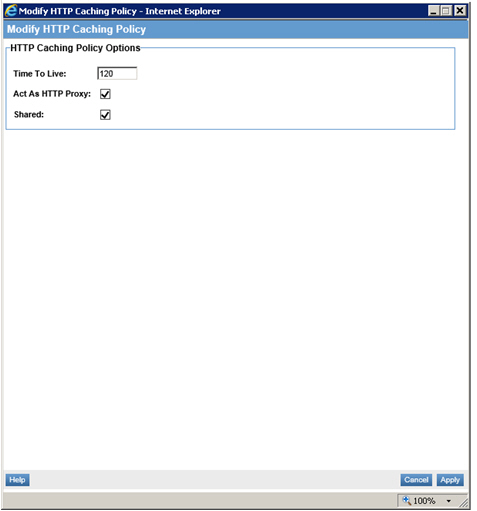
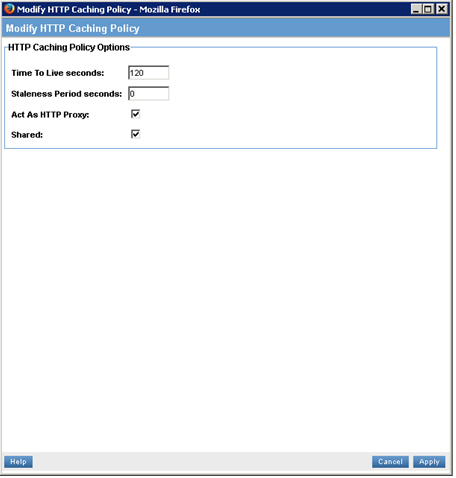
INFRA-709: PUSH HTTP Caching Policy to main docs site

Changed region(s): [[0.0, 0.0, 1.0, 1.0]]

diff --git a/ag/policies/using_the_http_caching_policy.htm b/ag/policies/using_the_http_caching_policy.htm
@@ -66,6 +66,8 @@ nav-title: Using the HTTP Caching Policy
 <p>The policy includes the following configuration options:</p>
 <ul class="usingOrderedList">
   <li><strong>Time To Live</strong> - Allows you to specify the maxium time in seconds a response will be cached. If not specified, the maximum time will dictated by the SOA container settings. </li>
+  <li><strong>Staleness Period Seconds</strong> - If a value is entered, any cached entry will live in the cache for the number of seconds in Time To Live, plus number of seconds in Staleness Period.&nbsp; The &quot;stale&quot; portion of the entry will only be used if Cache-Control directives on the request allow for a stale entry to be used, by the use of max-stale directive.
+  The default is 0.&nbsp; </li>
   <li><strong>Act as HTTP Proxy</strong> - Uncheck to enable either the HTTP Proxy Mode (checked) or HTTP Mediation / Server Mode.</li>
   <li><strong>Shared Cache</strong> - Uncheck to enable  ability to use a private cache. You must also select a Subject Category (below). </li>
   <li><strong>Subject Category</strong> - Allows you to select a subject category if Shared Cache is unchecked. The subject category is used to find the cache's principal name that is set when the cache is created, and use it as part of the cache key.  </li>
@@ -87,9 +89,9 @@ nav-title: Using the HTTP Caching Policy
 <p>In Policy Manager, you can create a HTTPS Caching Policy instance using <strong>Add Policy</strong> in the <em>Policies &gt; Operational Policies</em> section. </p>
 <h5>Step 2: Modify Policy</h5>
 <p>When you <strong>Modify</strong> the HTTP Caching   policy on the <em>Policy Details</em> page the initial policy will look like this:</p>
-<p><img src="images/modify_http_caching_policy.jpg" width="477" height="511" /></p>
+<p><img src="images/modify_http_caching_policy.jpg" width="456" height="478" /></p>
 <p>Configure the policy options based on your requirements and <strong>Apply</strong>. </p>
-<p><img src="images/http_cache_policy_summary.jpg" width="454" height="132" /></p>
+<p><img src="images/http_cache_policy_summary.jpg" width="498" height="145" /></p>
 <h5>Step 3: Attach Policy</h5>
 <p>After you have saved your policy you can  attach it to a web service,  operation, or binding that you would like to enhance the message processing of.</p>
 <h5>Step 4: Test Policy and View Monitoring Data</h5>
